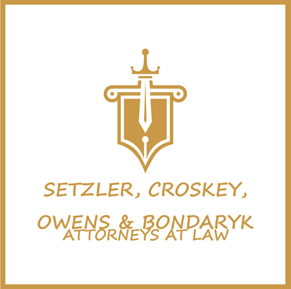
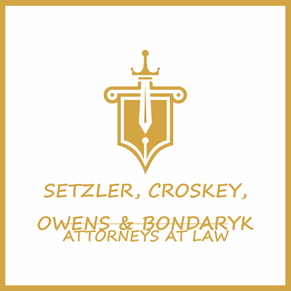
done-22

diff --git a/index.html b/index.html
@@ -282,19 +282,19 @@
 						</div>
 						<div class="img-color-wrap">
 							<div class="img-color__profile">
-								<img id="img-color-1" class="img-color-basis wow fadeInLeft" data-wow-offset="300" data-wow-delay="0.2s" data-src="img/sect-colors/color-1-min.jpg" alt="">
-								<span id="span-color-1" class="wow fadeInLeft animate-sebtitle" data-wow-offset="300" data-wow-delay="0.2s">
+								<img id="img-color-1" class="img-color-basis wow fadeInLeft" data-wow-offset="300" data-wow-delay="0.2s" data-src="img/sect-colors/color-1-min.png" alt="">
+								<span id="span-color-1" class="wow fadeInLeft animate-sebtitle fix_sub" data-wow-offset="300" data-wow-delay="0.2s">
 									Вертикальна компоновка логотипу на білому фоні
 								</span>
-								<img class="img-color-basis wow fadeInLeft" data-wow-offset="300" data-wow-delay="0.2s" data-src="img/sect-colors/color-2-min.jpg" alt="">
-								<span class="wow fadeInLeft animate-sebtitle" data-wow-offset="300" data-wow-delay="0.2s">Логотип на фірмовому темно-синьому кольорі
+								<img class="img-color-basis wow fadeInLeft" data-wow-offset="300" data-wow-delay="0.2s" data-src="img/sect-colors/color-2-min.png" alt="">
+								<span class="wow fadeInLeft animate-sebtitle fix_sub" data-wow-offset="300" data-wow-delay="0.2s">Логотип на фірмовому темно-синьому кольорі
 								</span>
 							</div>
 							<div class="img-color__profile">
-								<img class="img-color-basis wow fadeInLeft" data-wow-offset="300" data-wow-delay="0.2s" data-src="img/sect-colors/color-3-min.jpg" alt="">
-								<span class="wow fadeInLeft animate-sebtitle" data-wow-offset="300" data-wow-delay="0.2s">Горизонтальна  компоновка логотипу на білому фоні</span>
-								<img id="img-color-3" class="img-color-basis wow fadeInLeft" data-wow-offset="300" data-wow-delay="0.2s" data-src="img/sect-colors/color-4-min.jpg" alt="">
-								<span id="span-color-3" class="wow fadeInLeft animate-sebtitle" data-wow-offset="300" data-wow-delay="0.2s">Логотип на фірмовому гірчичному фоні</span>
+								<img class="img-color-basis wow fadeInLeft" data-wow-offset="300" data-wow-delay="0.2s" data-src="img/sect-colors/color-3-min.png" alt="">
+								<span class="wow fadeInLeft animate-sebtitle fix_sub" data-wow-offset="300" data-wow-delay="0.2s">Горизонтальна  компоновка логотипу на білому фоні</span>
+								<img id="img-color-3" class="img-color-basis wow fadeInLeft" data-wow-offset="300" data-wow-delay="0.2s" data-src="img/sect-colors/color-4-min.png" alt="">
+								<span id="span-color-3" class="wow fadeInLeft animate-sebtitle fix_sub" data-wow-offset="300" data-wow-delay="0.2s">Логотип на фірмовому гірчичному фоні</span>
 								
 							</div>
 							

diff --git a/css/style.css b/css/style.css
@@ -639,6 +639,10 @@ header {
   .img-color-wrap span {
     padding-top: 20px;
     margin-bottom: 10px; }
+  .img-color-wrap img {
+    -webkit-box-shadow: -4px -1px 9px 0px #c2c2c2;
+    -moz-box-shadow: -4px -1px 9px 0px #c2c2c2;
+    box-shadow: -4px -1px 9px 0px #c2c2c2; }
 
 .img-color__profile {
   width: 245px;
@@ -661,6 +665,10 @@ header {
     width: 422px;
     max-height: 422px;
     box-shadow: -6px 4px 19px -1px #aba1ab; }
+
+.fix_sub {
+  min-height: 90px;
+  text-align: center; }
 
 @media (max-width: 1336px) {
   #shadow-4 {

diff --git a/scss/colors.scss b/scss/colors.scss
@@ -112,6 +112,11 @@
 		padding-top: 20px;
 		margin-bottom: 10px;
 	}
+	img {
+		-webkit-box-shadow: -4px -1px 9px 0px rgba(194,194,194,1);
+		-moz-box-shadow: -4px -1px 9px 0px rgba(194,194,194,1);
+		box-shadow: -4px -1px 9px 0px rgba(194,194,194,1);
+	}
 }
 .img-color__profile {
 	width: 245px;
@@ -138,6 +143,10 @@
 	max-height: 422px;
 	box-shadow: -6px 4px 19px -1px rgba(171,161,171,1);
 	}
+}
+.fix_sub {
+	min-height: 90px;
+	text-align: center;
 }
 @media (max-width: 1336px) {
 	#shadow-4 {
